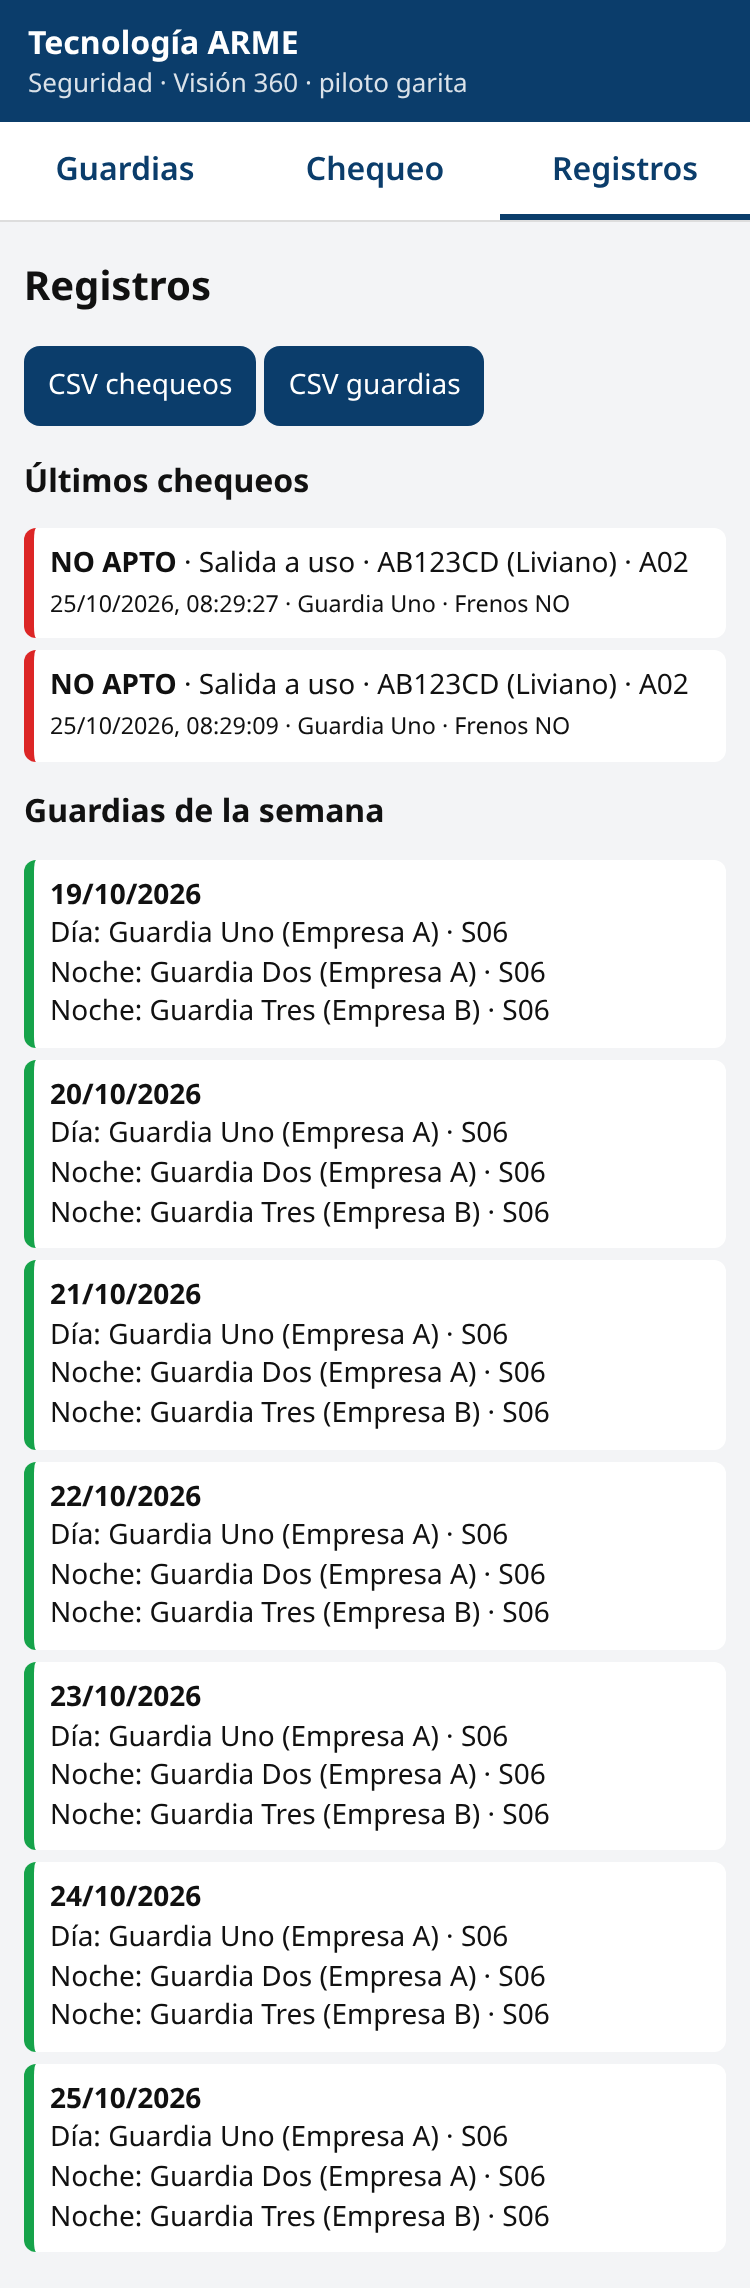
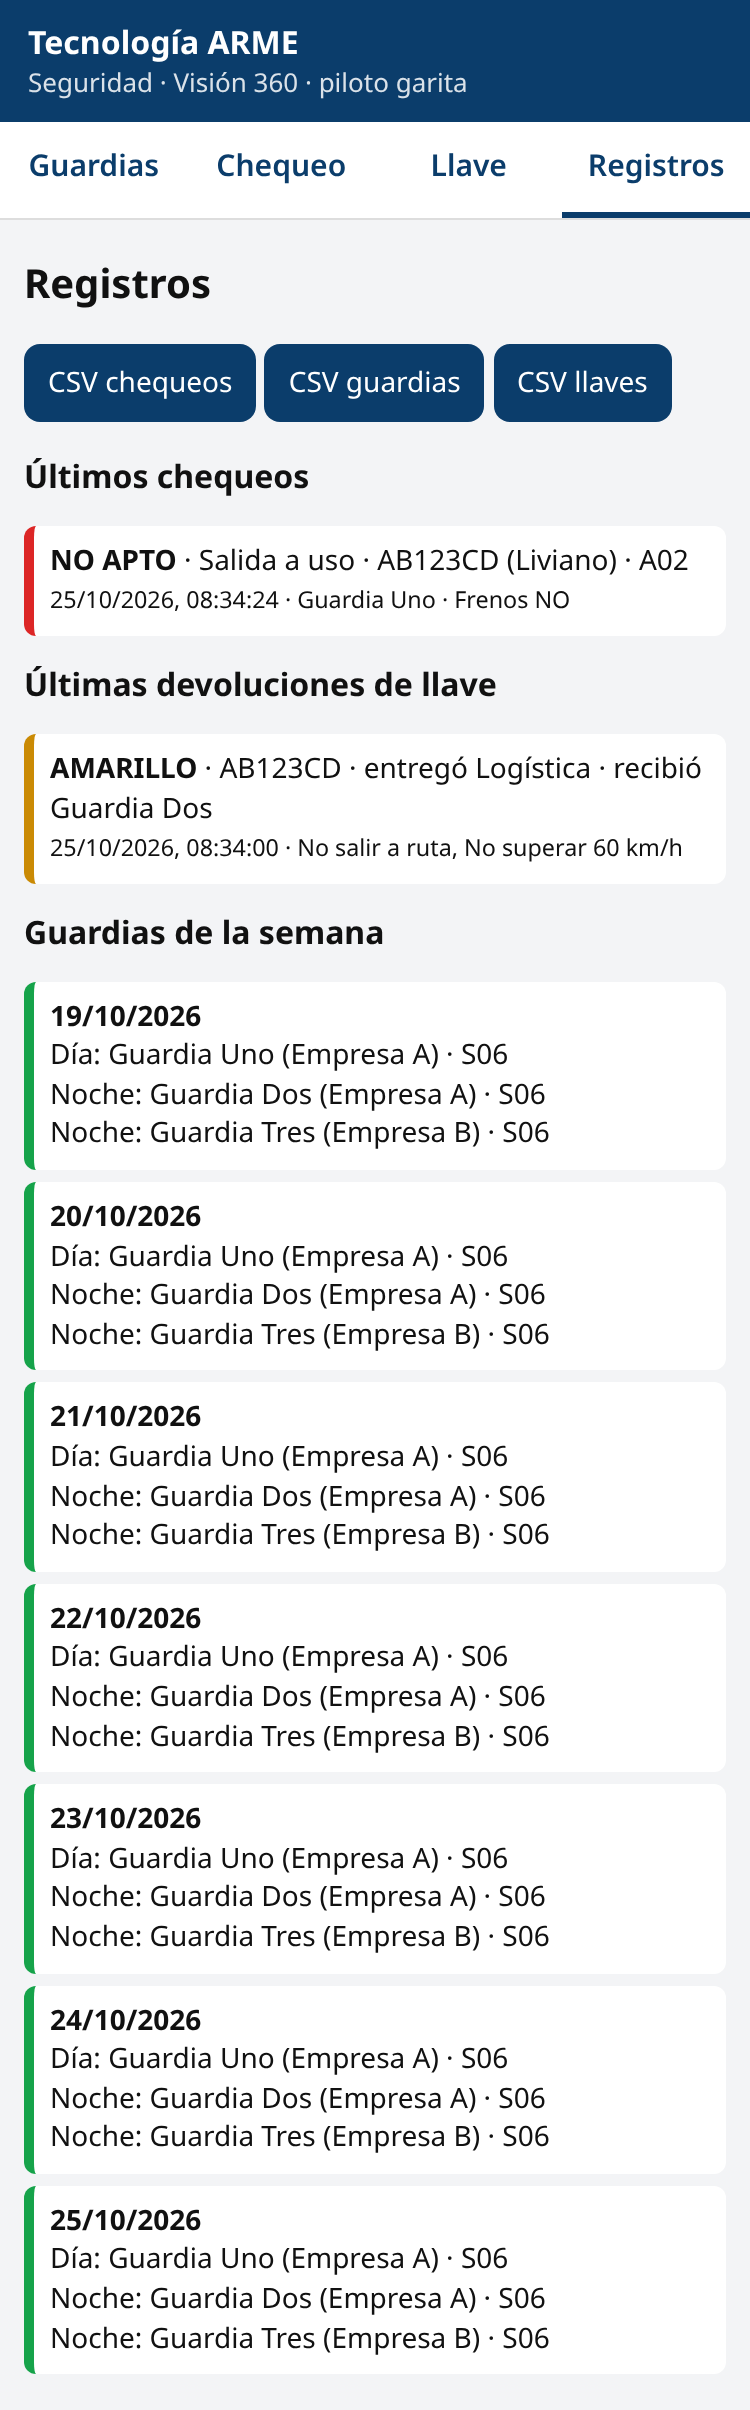
Devolución de llave: llavero rojo/amarillo/verde, restricciones, listado y CSV

diff --git a/public/app.js b/public/app.js
@@ -1,4 +1,4 @@
-import { TIPOS, KIT, ACCESOS, PUESTOS, dictaminar, validarSemana } from "./regla.js";
+import { TIPOS, KIT, ACCESOS, PUESTOS, LLAVEROS, RESTRICCIONES, dictaminar, validarSemana, validarLlave } from "./regla.js";
 const $ = (s) => document.querySelector(s), esc = (s) => String(s ?? "").replace(/[&<>"]/g, (c) => `&#${c.charCodeAt(0)};`);
 const opts = (l, sel) => l.map(([v, t]) => `<option value="${v}"${v === sel ? " selected" : ""}>${esc(t)}</option>`).join("");
 let clave = localStorage.getItem("s360-clave") || "";
@@ -40,7 +40,8 @@ $("#s-guardar").onclick = async () => {
 async function cargarSemana() {
   semana = (await api("/api/semana"))[1];
   const nombres = [...new Set((semana?.dias || []).flatMap((d) => d.guardias.map((g) => g.nombre)))];
-  $("#c-guardia").innerHTML = `<option value="">— Elegí guardia —</option>` + opts(nombres.map((n) => [n, n]));
+  const o = `<option value="">— Elegí guardia —</option>` + opts(nombres.map((n) => [n, n]));
+  $("#c-guardia").innerHTML = o; $("#l-guardia").innerHTML = o;
 }
 // ---------- Chequeo ----------
 $("#c-tipo").innerHTML = opts(TIPOS.map((t) => [t, t])); $("#c-acceso").innerHTML = opts(ACCESOS, "A02");
@@ -81,9 +82,31 @@ F.onsubmit = async (e) => {
   const [s, r] = await api("/api/chequeos", c);
   if (s === 201) { pintar(r.dictamen, true); $("#c-dict").scrollIntoView({ behavior: "smooth" }); } else $("#c-err").textContent = (r.errores || ["Error"]).join(" · ");
 };
+// ---------- Devolución de llave ----------
+const L = $("#l-f");
+$("#l-checks").innerHTML = RESTRICCIONES.map((r) => `<label class="chk"><input type="checkbox" name="restr" value="${r}">${r}</label>`).join("");
+const ahora = () => { const d = new Date(); d.setMinutes(d.getMinutes() - d.getTimezoneOffset()); return d.toISOString().slice(0, 16); };
+L.fechaHora.value = ahora();
+const leerLlave = () => ({ unidad: L.unidad.value.trim(), color: L.color.value, restricciones: [...L.querySelectorAll("[name=restr]:checked")].map((x) => x.value),
+  otra: L.otra.value.trim(), entrego: L.entrego.value.trim(), guardia: L.guardia.value, fechaHora: L.fechaHora.value, observaciones: L.observaciones.value.trim() });
+function pintarLlave(l, final) {
+  const el = $("#l-res"); if (!l.color) return (el.innerHTML = "");
+  el.className = "dict " + l.color;
+  const rs = l.color === "AMARILLO" ? [...l.restricciones, l.otra].filter(Boolean) : [];
+  el.innerHTML = `<small>${final ? "Devolución registrada" : "Llavero"}</small><big>${l.color}</big><b>${esc(LLAVEROS[l.color])}</b>${rs.length ? `<small>${rs.map(esc).join(" · ")}</small>` : ""}`;
+}
+L.onchange = L.oninput = () => { const l = leerLlave(); $("#l-restr").hidden = l.color !== "AMARILLO"; pintarLlave(l); };
+L.onsubmit = async (e) => {
+  e.preventDefault(); const l = leerLlave(), err = validarLlave({ ...l, fechaHora: l.fechaHora && l.fechaHora + ":00" });
+  $("#l-err").textContent = err.join(" · "); if (err.length) return;
+  const [s, r] = await api("/api/llaves", l);
+  if (s === 201) { pintarLlave(r, true); $("#l-res").scrollIntoView({ behavior: "smooth" }); } else $("#l-err").textContent = (r.errores || ["Error"]).join(" · ");
+};
 // ---------- Registros ----------
 async function registros() {
-  const [, ch] = await api("/api/chequeos"); await cargarSemana();
+  const [, ch] = await api("/api/chequeos"); const [, ll] = await api("/api/llaves"); await cargarSemana();
+  $("#r-llave").innerHTML = ll.length ? ll.slice(0, 20).map((l) => `<div class="reg ${l.color}"><b>${l.color}</b> · ${esc(l.unidad)} · entregó ${esc(l.entrego)} · recibió ${esc(l.guardia)}<br>
+    <small>${new Date(l.fechaHora).toLocaleString("es-AR")}${l.restricciones.length || l.otra ? " · " + [...l.restricciones, l.otra].filter(Boolean).map(esc).join(", ") : ""}</small></div>`).join("") : "<p>Sin devoluciones.</p>";
   $("#r-cheq").innerHTML = ch.length ? ch.slice(0, 20).map((c) => `<div class="reg ${c.dictamen.resultado === "APTO" ? "" : "NO"}"><b>${c.dictamen.resultado}</b> · ${esc(c.movimiento)} · ${esc(c.unidad)} (${esc(c.tipo)}) · ${esc(c.acceso)}<br>
     <small>${new Date(c.fecha).toLocaleString("es-AR")} · ${esc(c.guardia)}${c.dictamen.motivos.length ? " · " + c.dictamen.motivos.map(esc).join(", ") : ""}</small></div>`).join("") : "<p>Sin chequeos.</p>";
   $("#r-guard").innerHTML = semana ? semana.dias.map((d) => `<div class="reg"><b>${d.fecha.split("-").reverse().join("/")}</b><br>${d.guardias.map((g) => `${g.turno}: ${esc(g.nombre)} (${esc(g.empresa)}) · ${g.puesto}`).join("<br>")}</div>`).join("") : "<p>No hay semana cargada.</p>";
@@ -92,7 +115,7 @@ async function registros() {
 function ruta() {
   if (!clave) return mostrarIngreso(); document.querySelector("nav").hidden = false; $("#v-ingreso").hidden = true;
   const v = (location.hash || "#chequeo").slice(1);
-  ["semana", "chequeo", "registros"].forEach((x) => ($("#v-" + x).hidden = x !== v));
+  ["semana", "chequeo", "llave", "registros"].forEach((x) => ($("#v-" + x).hidden = x !== v));
   document.querySelectorAll("nav a").forEach((a) => a.classList.toggle("act", a.hash === "#" + v));
   if (v === "registros") registros();
 }
@@ -109,6 +132,7 @@ async function descargar(u, nombre) {
 }
 $("#x-cheq").onclick = (e) => { e.preventDefault(); descargar("/api/export/chequeos.csv", "chequeos.csv"); };
 $("#x-guard").onclick = (e) => { e.preventDefault(); descargar("/api/export/guardias.csv", "guardias.csv"); };
+$("#x-llave").onclick = (e) => { e.preventDefault(); descargar("/api/export/llaves.csv", "llaves.csv"); };
 $("#s-inicio").value = lunes(); kit();
 const iniciar = () => cargarSemana().then(() => { if (semana) $("#s-inicio").value = semana.inicio; armarSemana(); ruta(); }).catch(() => {});
 if (clave) iniciar(); else mostrarIngreso();

diff --git a/server.js b/server.js
@@ -1,12 +1,12 @@
 // seguridad-360 · Tecnología ARME · piloto Visión 360 (sin Odoo). Node 20, sin dependencias.
 // Sirve public/ y guarda en un archivo JSON (DATA_DIR, por defecto ./datos).
 import http from "node:http"; import fs from "node:fs"; import path from "node:path"; import { fileURLToPath } from "node:url"; import crypto from "node:crypto";
-import { dictaminar, validarSemana, TIPOS } from "./public/regla.js";
+import { dictaminar, validarSemana, validarLlave, RESTRICCIONES, TIPOS } from "./public/regla.js";
 const RAIZ = path.dirname(fileURLToPath(import.meta.url));
 const DIR = process.env.DATA_DIR || path.join(RAIZ, "datos");
 const ARCH = path.join(DIR, "registros.json");
 fs.mkdirSync(DIR, { recursive: true });
-const leer = () => { try { return JSON.parse(fs.readFileSync(ARCH, "utf8")); } catch { return { semanas: [], chequeos: [] }; } };
+const leer = () => { try { return JSON.parse(fs.readFileSync(ARCH, "utf8")); } catch { return { semanas: [], chequeos: [], llaves: [] }; } };
 const grabar = (db) => { fs.writeFileSync(ARCH + ".tmp", JSON.stringify(db)); fs.renameSync(ARCH + ".tmp", ARCH); };
 const TIPO = { ".html": "text/html; charset=utf-8", ".js": "text/javascript", ".css": "text/css", ".png": "image/png", ".svg": "image/svg+xml" };
 const json = (r, c, o) => { r.writeHead(c, { "content-type": "application/json" }); r.end(JSON.stringify(o)); };
@@ -42,6 +42,21 @@ export const app = async (q, r) => {
       const d = dictaminar(c); // el dictamen lo recalcula SIEMPRE el servidor
       const db = leer(); const reg = { id: Math.max(0, ...db.chequeos.map((x) => x.id)) + 1, fecha: new Date().toISOString(), ...c, dictamen: d };
       db.chequeos.push(reg); grabar(db); return json(r, 201, reg);
+    }
+    if (u.pathname === "/api/llaves" && q.method === "GET") return json(r, 200, (leer().llaves || []).slice(-50).reverse());
+    if (u.pathname === "/api/llaves" && q.method === "POST") {
+      const b = await cuerpo(q); const e = validarLlave(b); if (e.length) return json(r, 422, { errores: e });
+      const l = { unidad: b.unidad.trim(), color: b.color, restricciones: b.color === "AMARILLO" ? (b.restricciones || []).filter((x) => RESTRICCIONES.includes(x)) : [],
+        otra: b.color === "AMARILLO" ? (b.otra || "").trim() : "", entrego: b.entrego.trim(), guardia: b.guardia.trim(), fechaHora: b.fechaHora, observaciones: (b.observaciones || "").trim() };
+      const db = leer(); db.llaves ||= []; const reg = { id: Math.max(0, ...db.llaves.map((x) => x.id)) + 1, registrado: new Date().toISOString(), ...l };
+      db.llaves.push(reg); grabar(db); return json(r, 201, reg);
+    }
+    const ml = u.pathname.match(/^\/api\/llaves\/(\d+)$/);
+    if (ml && q.method === "DELETE") { const db = leer(); db.llaves ||= []; const n = db.llaves.length; db.llaves = db.llaves.filter((c) => c.id !== +ml[1]); grabar(db); return json(r, n === db.llaves.length ? 404 : 200, { ok: true }); }
+    if (u.pathname === "/api/export/llaves.csv") {
+      const f = [["id", "fecha_hora", "unidad", "color", "restricciones", "otra", "entrego", "guardia_recibe", "observaciones", "registrado"]];
+      (leer().llaves || []).forEach((l) => f.push([l.id, l.fechaHora, l.unidad, l.color, l.restricciones.join(" | "), l.otra, l.entrego, l.guardia, l.observaciones, l.registrado]));
+      r.writeHead(200, { "content-type": "text/csv; charset=utf-8", "content-disposition": "attachment; filename=llaves.csv" }); return r.end(csv(f));
     }
     let m = u.pathname.match(/^\/api\/chequeos\/(\d+)$/);
     if (m && q.method === "DELETE") { const db = leer(), n = db.chequeos.length; db.chequeos = db.chequeos.filter((c) => c.id !== +m[1]); grabar(db); return json(r, n === db.chequeos.length ? 404 : 200, { ok: true }); }

diff --git a/public/index.html b/public/index.html
@@ -1,7 +1,7 @@
 <!doctype html><html lang="es-AR"><head><meta charset="utf-8"><meta name="viewport" content="width=device-width,initial-scale=1">
 <title>Tecnología ARME · Seguridad Visión 360</title><link rel="stylesheet" href="estilo.css"></head><body>
 <header><b>Tecnología ARME</b><span>Seguridad · Visión 360 · piloto garita</span></header>
-<nav><a href="#semana">Guardias</a><a href="#chequeo">Chequeo</a><a href="#registros">Registros</a></nav>
+<nav><a href="#semana">Guardias</a><a href="#chequeo">Chequeo</a><a href="#llave">Llave</a><a href="#registros">Registros</a></nav>
 <main>
 <section id="v-ingreso" hidden><h1>Ingreso</h1><p class="ayuda">Pedí la clave de acceso a Logística. Se pide una sola vez en este teléfono.</p>
  <form id="i-f"><label>Clave de acceso<input id="i-clave" autocomplete="off" autocapitalize="characters" required></label><div id="i-err" class="err"></div><button class="prim">Entrar</button></form></section>
@@ -26,7 +26,22 @@
  <label>Observaciones<textarea name="observaciones" rows="2"></textarea></label>
  <div id="c-dict" class="dict"></div><div id="c-err" class="err"></div>
  <button class="prim" id="c-enviar">Registrar chequeo</button></form></section>
+<section id="v-llave" hidden><h1>Devolución de llave</h1>
+ <p class="ayuda">Cierre del ciclo. Sin chequeo visual: solo se registra la entrega de la llave con el color que eligió Logística.</p>
+ <form id="l-f">
+ <label>Unidad (patente o código)<input name="unidad" autocomplete="off" placeholder="Ej: AB123CD o INT-07"></label>
+ <fieldset class="llaveros"><legend>Color del llavero (lo eligió Logística)</legend>
+  <label class="ll ROJO"><input type="radio" name="color" value="ROJO"><big>ROJO</big><span>La unidad NO puede salir del taller. Si está en playa, no se puede mover.</span></label>
+  <label class="ll AMARILLO"><input type="radio" name="color" value="AMARILLO"><big>AMARILLO</big><span>Uso restringido: respetar las restricciones marcadas.</span></label>
+  <label class="ll VERDE"><input type="radio" name="color" value="VERDE"><big>VERDE</big><span>Uso libre.</span></label></fieldset>
+ <fieldset id="l-restr" hidden><legend>Restricciones (amarillo)</legend><div id="l-checks"></div><label>Otra<input name="otra"></label></fieldset>
+ <label>Quién entregó (nombre)<input name="entrego" autocomplete="off"></label>
+ <label>Guardia que recibe<select name="guardia" id="l-guardia"></select></label>
+ <label>Día y hora<input type="datetime-local" name="fechaHora"></label>
+ <label>Observaciones<textarea name="observaciones" rows="2"></textarea></label>
+ <div id="l-res" class="dict"></div><div id="l-err" class="err"></div>
+ <button class="prim">Registrar devolución</button></form></section>
 <section id="v-registros" hidden><h1>Registros</h1>
- <p><a class="btn" id="x-cheq" href="#">CSV chequeos</a> <a class="btn" id="x-guard" href="#">CSV guardias</a></p>
- <h2>Últimos chequeos</h2><div id="r-cheq"></div><h2>Guardias de la semana</h2><div id="r-guard"></div></section>
+ <p><a class="btn" id="x-cheq" href="#">CSV chequeos</a> <a class="btn" id="x-guard" href="#">CSV guardias</a> <a class="btn" id="x-llave" href="#">CSV llaves</a></p>
+ <h2>Últimos chequeos</h2><div id="r-cheq"></div><h2>Últimas devoluciones de llave</h2><div id="r-llave"></div><h2>Guardias de la semana</h2><div id="r-guard"></div></section>
 </main><script type="module" src="app.js"></script></body></html>

diff --git a/test/llave.test.js b/test/llave.test.js
@@ -1,0 +1,24 @@
+import test from "node:test"; import assert from "node:assert/strict"; import http from "node:http";
+import { validarLlave } from "../public/regla.js";
+const ok = { unidad: "U1", color: "VERDE", entrego: "Logística", guardia: "G1", fechaHora: "2026-10-25T20:30" };
+test("llave verde completa OK", () => assert.deepEqual(validarLlave(ok), []));
+test("color inválido o faltante", () => { assert.ok(validarLlave({ ...ok, color: "AZUL" }).length); assert.ok(validarLlave({ ...ok, color: "" }).length); });
+test("amarillo exige restricción u otra", () => {
+  assert.ok(validarLlave({ ...ok, color: "AMARILLO" }).length);
+  assert.deepEqual(validarLlave({ ...ok, color: "AMARILLO", restricciones: ["No salir a ruta"] }), []);
+  assert.deepEqual(validarLlave({ ...ok, color: "AMARILLO", otra: "Solo dentro del predio" }), []);
+});
+test("faltan unidad, entregó o guardia", () => assert.equal(validarLlave({ color: "ROJO", fechaHora: "2026-10-25T20:30" }).length, 3));
+process.env.ACCESS_KEY = "PRUEBA7"; process.env.DATA_DIR = "/tmp/s360-llave-" + process.pid;
+const { app } = await import("../server.js");
+const srv = http.createServer(app).listen(0); const base = `http://localhost:${srv.address().port}`;
+test.after(() => { srv.closeAllConnections(); srv.close(); });
+test("API llaves: 401 sin clave, alta, CSV, borrado", async () => {
+  assert.equal((await fetch(base + "/api/llaves")).status, 401);
+  const h = { "x-access-key": "PRUEBA7", "content-type": "application/json" };
+  const r = await fetch(base + "/api/llaves", { method: "POST", headers: h, body: JSON.stringify({ ...ok, color: "ROJO", restricciones: ["No salir a ruta"] }) });
+  const j = await r.json(); assert.equal(r.status, 201); assert.deepEqual(j.restricciones, []);
+  assert.match(await (await fetch(base + "/api/export/llaves.csv", { headers: h })).text(), /ROJO/);
+  assert.equal((await fetch(base + "/api/llaves/" + j.id, { method: "DELETE", headers: h })).status, 200);
+  assert.equal((await (await fetch(base + "/api/llaves", { headers: h })).json()).length, 0);
+});

diff --git a/public/estilo.css b/public/estilo.css
@@ -16,3 +16,11 @@ fieldset{border:1px solid #ccc;border-radius:8px;margin:10px 0;padding:6px 10px;
 .dict.APTO{background:#dcfce7;color:#14532d;border:3px solid #16a34a}.dict.NO{background:#fee2e2;color:#7f1d1d;border:3px solid #dc2626}.dict small{display:block}
 .reg{background:#fff;border-left:5px solid #16a34a;border-radius:6px;padding:8px;margin:6px 0;font-size:14px}.reg.NO{border-color:#dc2626}
 [hidden]{display:none!important}
+nav a{font-size:15px}
+.llaveros{display:flex;flex-direction:column;gap:8px}.ll{display:block;margin:0;border:3px solid transparent;border-radius:12px;padding:12px;cursor:pointer}
+.ll input{display:none}.ll big{display:block;font-size:30px;font-weight:900}.ll span{font-size:15px;font-weight:600}
+.ll.ROJO{background:#fee2e2;color:#7f1d1d}.ll.AMARILLO{background:#fef9c3;color:#713f12}.ll.VERDE{background:#dcfce7;color:#14532d}
+.ll:has(input:checked){border-color:currentColor;box-shadow:0 0 0 3px #0b3d6b55}.ll:has(input:checked) big::after{content:" ✔"}
+.dict.ROJO{background:#fee2e2;color:#7f1d1d;border:3px solid #dc2626}.dict.AMARILLO{background:#fef9c3;color:#713f12;border:3px solid #ca8a04}.dict.VERDE{background:#dcfce7;color:#14532d;border:3px solid #16a34a}
+.chk{display:flex;align-items:center;gap:8px;font-weight:600}.chk input{width:22px;height:22px;margin:0}
+.reg.ROJO{border-color:#dc2626}.reg.AMARILLO{border-color:#ca8a04}

diff --git a/public/regla.js b/public/regla.js
@@ -48,3 +48,21 @@ export function validarSemana(s) {
   });
   return err;
 }
+
+// Devolución de llave (cierre del ciclo). Color que eligió Logística al cerrar.
+export const LLAVEROS = {
+  ROJO: "La unidad NO puede salir del taller. Si está en playa, no se puede mover.",
+  AMARILLO: "Uso restringido: respetar las restricciones marcadas.",
+  VERDE: "Uso libre.",
+};
+export const RESTRICCIONES = ["No salir a ruta", "No superar 60 km/h", "Controlar agua y aceite"];
+export function validarLlave(l) {
+  const e = [];
+  if (!l?.unidad?.trim()) e.push("Falta la unidad");
+  if (!LLAVEROS[l?.color]) e.push("Elegí el color del llavero");
+  if (!l?.entrego?.trim()) e.push("Falta quién entregó");
+  if (!l?.guardia?.trim()) e.push("Elegí el guardia que recibe");
+  if (!l?.fechaHora || isNaN(Date.parse(l.fechaHora))) e.push("Falta día y hora");
+  if (l?.color === "AMARILLO" && !(l.restricciones || []).length && !l.otra?.trim()) e.push("Amarillo: marcá al menos una restricción");
+  return e;
+}

diff --git a/README.md b/README.md
@@ -6,7 +6,7 @@ Una sola garita (S06), en la manzana de la Fábrica; playas y taller cruzando la
 - Sin foto: el piloto no guarda imágenes.
 - `npm start` → http://localhost:8360 (`PORT`, `DATA_DIR` opcionales)
 - `npm test` → reglas APTO / NO APTO y validación de la semana
-- Vistas: `#semana` (alta semanal), `#chequeo` (portón), `#registros` (+ CSV en `/api/export/chequeos.csv` y `/api/export/guardias.csv`)
+- Vistas: `#semana` (alta semanal), `#chequeo` (portón), `#llave` (devolución de llave: ROJO / AMARILLO con restricciones / VERDE), `#registros` (+ CSV en `/api/export/chequeos.csv` y `/api/export/guardias.csv`, `/api/export/llaves.csv`)
 - Capturas: `ACCESS_KEY=... node scripts/capturas.mjs` (necesita `playwright-core` y Chrome) → `capturas/`
 
 ## Regla
